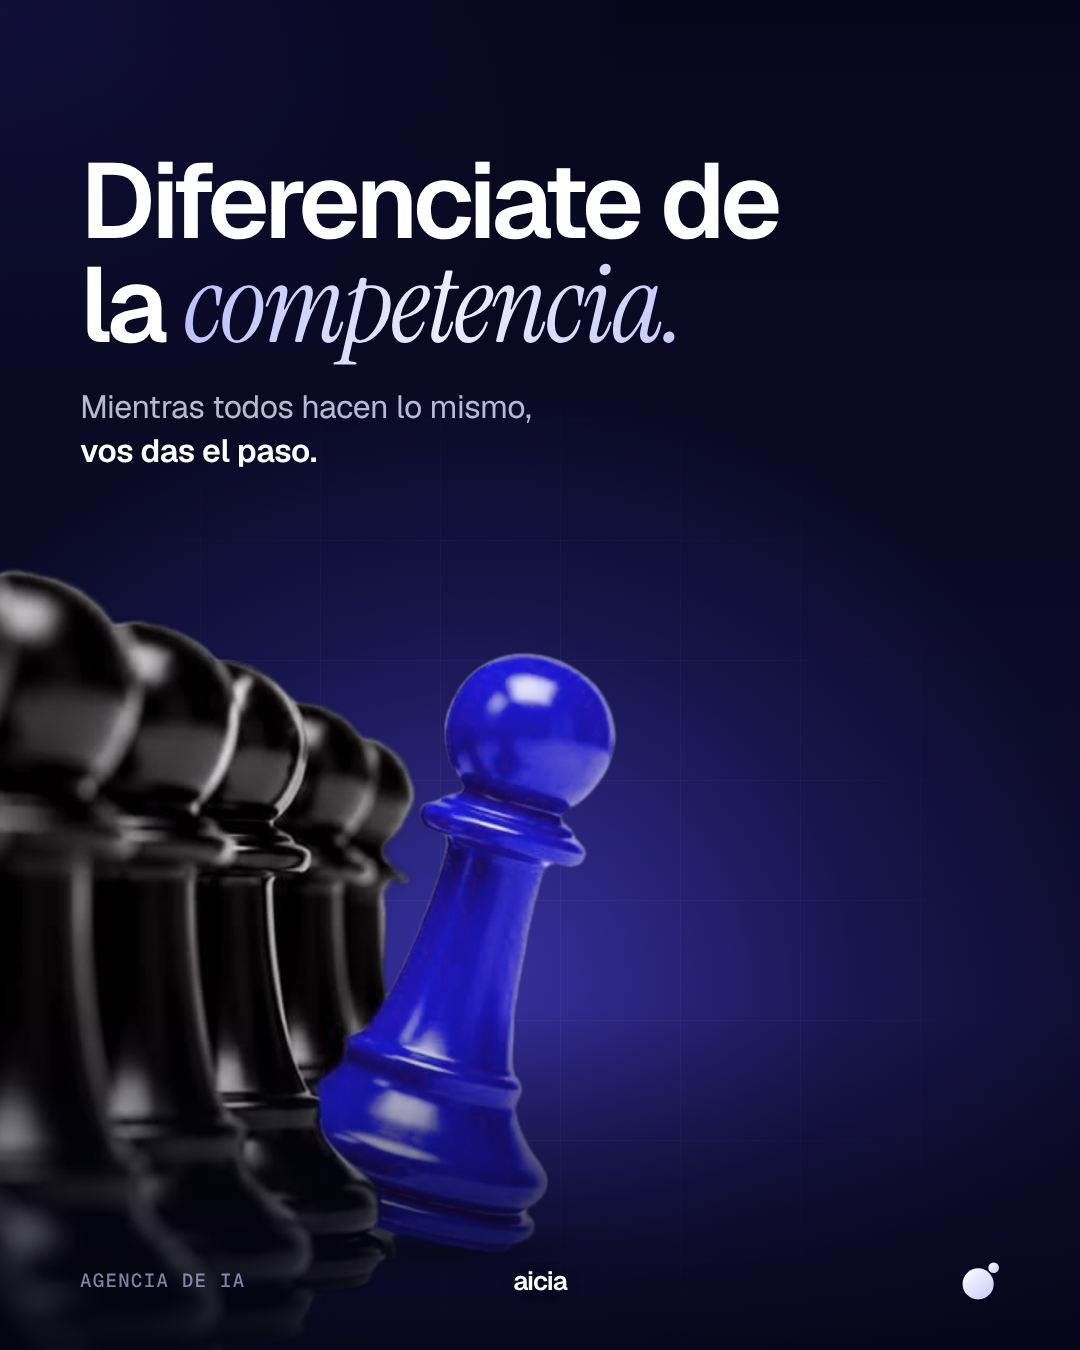
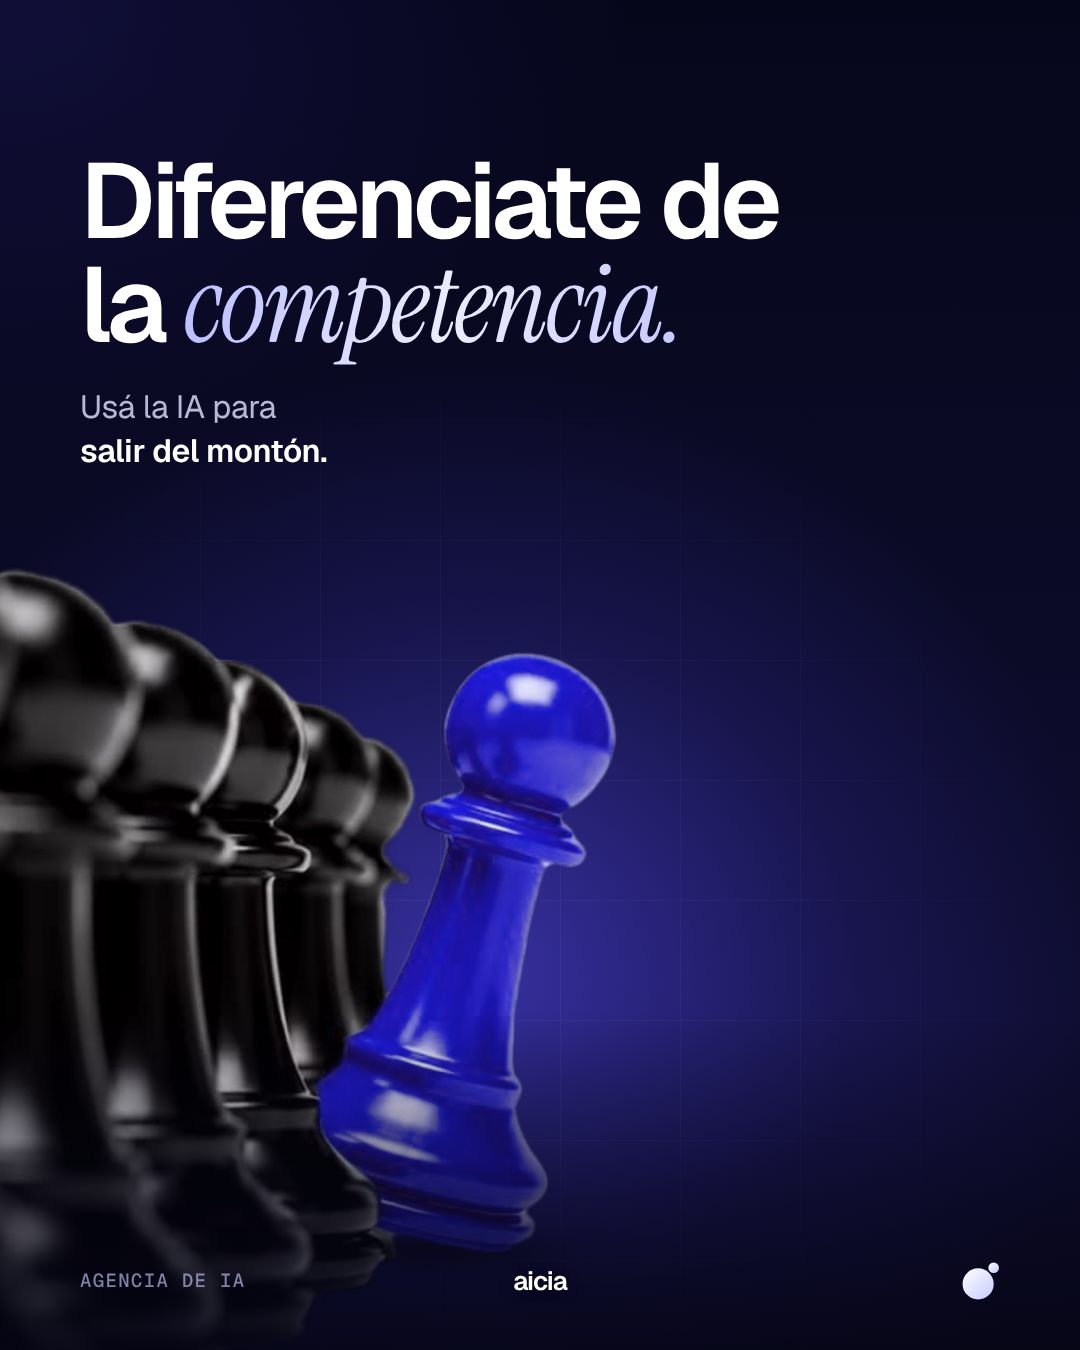
Publicaciones azules: nueva bajada en la tercera ("Usá la IA para salir del montón.")
Claude-Session: https://claude.ai/code/session_01SBSshHAET78NiDLxszLW9R

Changed region(s): [[0.0611, 0.28, 0.4889, 0.3422]]

diff --git a/historias/publicaciones/publicaciones.html b/historias/publicaciones/publicaciones.html
@@ -178,7 +178,7 @@ body{display:flex;flex-direction:column;align-items:center;gap:80px;padding:80px
   <div class="shadow" style="left:290px;top:1226px;width:290px;height:50px"></div><div class="shadow" style="left:214px;top:1207px;width:440px;height:90px;opacity:.35"></div>
   <div class="subj" data-rim="right" style="left:-60px;top:40px;width:1180px;--tint:0;--rim:.55"><img src="assets/peon-indigo.png" alt=""></div>
   <h1 class="title tx">Diferenciate de<br>la <span class="serif">competencia.</span></h1>
-  <p class="lede tx">Mientras todos hacen lo mismo,<br><b>vos das el paso.</b></p>
+  <p class="lede tx">Usá la IA para<br><b>salir del montón.</b></p>
   <div class="tag">Agencia de IA</div><div class="sig">aicia</div><svg class="mark" aria-label="Aicia"><use href="#logo-w"/></svg>
   <div class="basefade"></div><div class="vignette"></div><div class="grain"></div>
 </section>

diff --git a/CLAUDE.md b/CLAUDE.md
@@ -105,7 +105,7 @@ node publicaciones/render.mjs          # 3 publicaciones 1080×1350 + vista prev
   - Textos:
     1. "No es tu equipo. Es hacer todo *manual.*" (en 3 líneas, con "manual." sola en serif) / "Lo repetitivo se automatiza. **Tu equipo, a lo importante.**"
     2. "Tu negocio, potenciado *con IA.*" / "Agentes de IA, automatizaciones, webs y apps **a medida de tu negocio.**". Las manos van sin punto ni resplandor entre los dedos.
-    3. "Diferenciate de la *competencia.*" / "Mientras todos hacen lo mismo, **vos das el paso.**"
+    3. "Diferenciate de la *competencia.*" / "Usá la IA para **salir del montón.**" (a Guille no le convenció "vos das el paso").
 - La versión clara (sin sufijo) quedó como estaba, con el gris en la primera línea del título y un botón índigo en cada una.
 - `preparar-imagenes.mjs` agranda al doble los recortes de Guille (`*-original.png`) con un enfoque suave, y pasa el peón de azul rey al índigo de Aicia.
 
